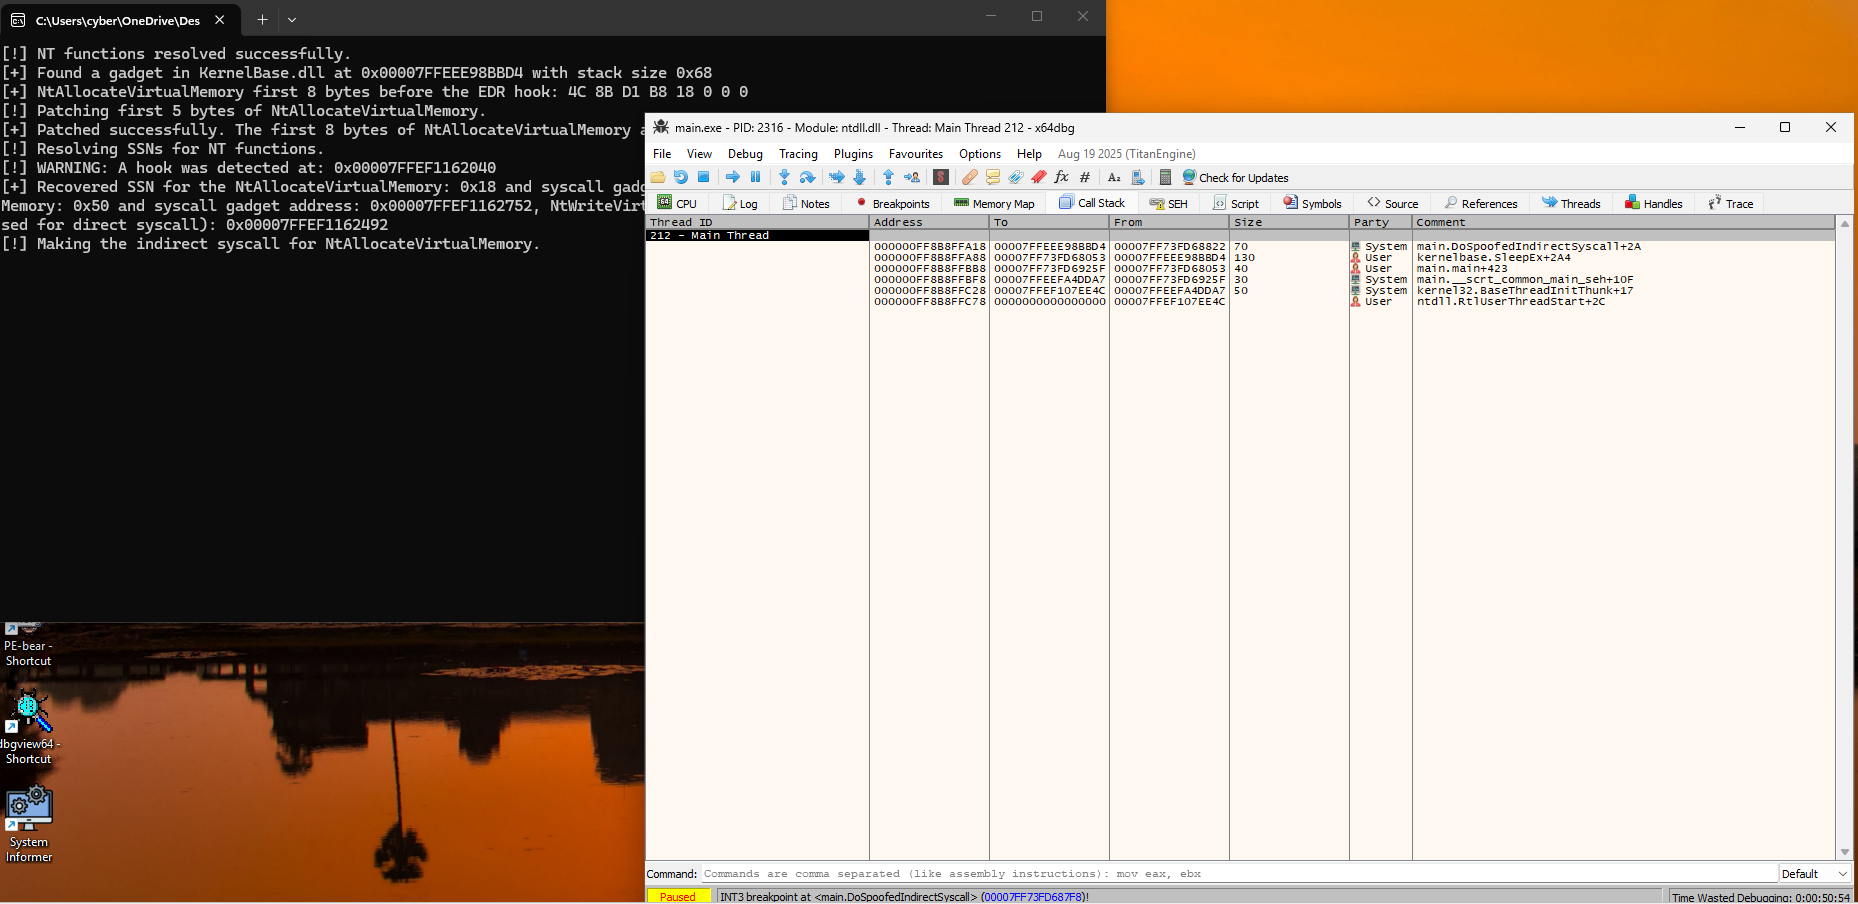
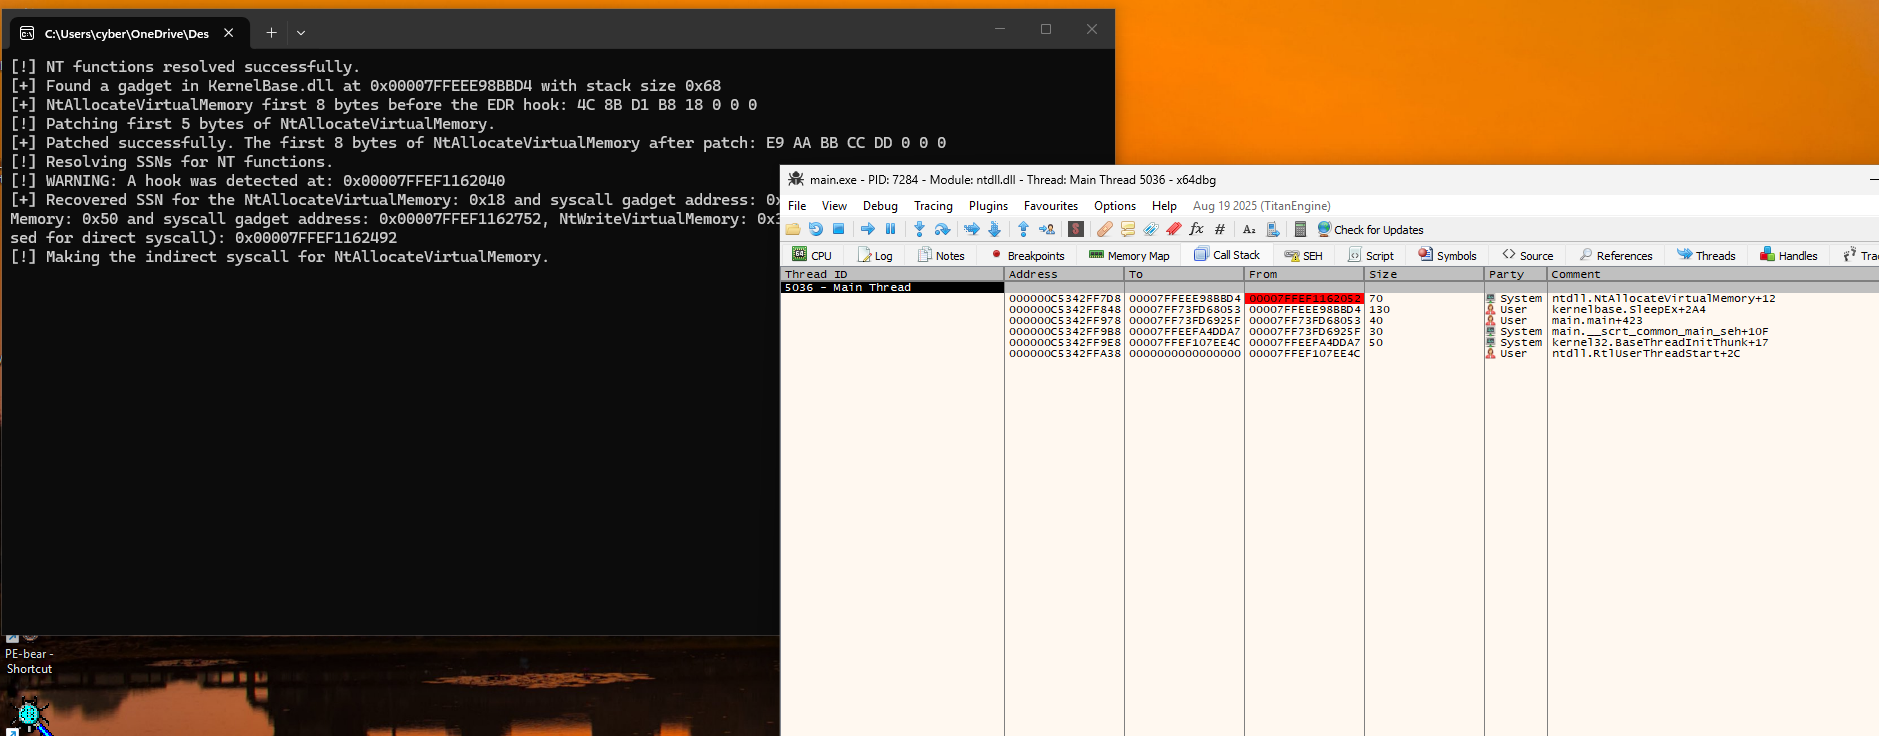
docs(windows): update Lab 4.3 call stack screenshot and document x64dbg CallstackCache behavior

diff --git a/windows/12-call-stack-spoofing-pdata-and-etw-amsi.md b/windows/12-call-stack-spoofing-pdata-and-etw-amsi.md
@@ -624,8 +624,8 @@ Look at the bottom-right stack pane: `[0x000000FF8B8FFA18]` (`RSP`) holds **`ker
 ![x64dbg Paused on syscall Inside ntdll.dll Showing Spoofed kernelbase.SleepEx+2A4 Frame at RSP](assets/lab-4.3/03-x64dbg-ntdll-syscall-spoofed-rsp-sleepex.png)
 
 #### 4. Live Unwound `Call Stack` Tab in x64dbg (Seamless `.pdata` Unwinding!)
-Because our synthetic frame size (`0x68`) matches `SleepEx`'s `.pdata` `UNWIND_INFO` entry to the exact byte, `x64dbg` unwinds cleanly through `kernelbase.SleepEx+2A4` (`Size: 70` hex = `0x68 + 8`) right back to `main.main+423` $\rightarrow$ `BaseThreadInitThunk` $\rightarrow$ `RtlUserThreadStart`:
-![x64dbg Call Stack Tab Showing Seamless Unwinding Through Spoofed kernelbase.SleepEx+2A4 Frame](assets/lab-4.3/04-x64dbg-clean-unwound-call-stack-tab.png)
+Breaking directly on `0x00007FFEF1162052` (`ntdll.NtAllocateVirtualMemory+12`) and inspecting `x64dbg`'s `Call Stack` tab shows the exact spoofed call chain—`ntdll.NtAllocateVirtualMemory+12` $\rightarrow$ **`kernelbase.SleepEx+2A4`** (`Size: 70` hex = `0x68` synthetic frame + `0x08` return address) $\rightarrow$ `main.main+423` $\rightarrow$ `BaseThreadInitThunk` $\rightarrow$ `RtlUserThreadStart`:
+![x64dbg Call Stack Tab Showing Seamless Unwinding From ntdll.NtAllocateVirtualMemory+12 Through Spoofed kernelbase.SleepEx+2A4 Frame](assets/lab-4.3/04-x64dbg-clean-unwound-call-stack-tab.png)
 
 #### 5. Returning From `ntdll.dll` Into `Module: kernelbase.dll` (`FF 23` — `jmp qword ptr ds:[rbx]`)
 Stepping past `ntdll!NtAllocateVirtualMemory`'s `ret` pops `0x00007FFEEE98BBD4` and lands inside `kernelbase.dll` (`RAX = 0` `STATUS_SUCCESS`) right on `jmp qword ptr ds:[rbx]`:
@@ -634,4 +634,12 @@ Stepping past `ntdll!NtAllocateVirtualMemory`'s `ret` pops `0x00007FFEEE98BBD4` 
 #### 6. Landing at `RestoreAfterSyscall` (`add rsp, 0x68` & Clean Return to `main()`)
 One step (`F7`) later, `kernelbase.dll`'s `jmp qword ptr ds:[rbx]` teleports execution back to `RestoreAfterSyscall` (`0x00007FF73FD68846`), which deallocates the `0x68`-byte synthetic frame, restores `RBX`, and returns `STATUS_SUCCESS` to `main()`:
 ![x64dbg Paused at RestoreAfterSyscall Deallocating 0x68-Byte Synthetic Frame](assets/lab-4.3/06-x64dbg-restore-after-syscall-cleanup.png)
+
+### Key Debugging & Evasion Notes
+1. **`x64dbg` `CallstackCache` Quirk (`F7` Single-Step vs. `F9` Breakpoint):**
+   - In `x64dbg` (`src/dbg/stackinfo.cpp`), unwound call stacks are cached by stack pointer alone (`CallstackCache.find(csp)`). If you single-step (`F7`) over `push qGadgetAddr` inside `DoSpoofedIndirectSyscall`, `x64dbg` caches `DoSpoofedIndirectSyscall+2A` as Frame 0 for that `RSP` value because the subsequent `jmp [qSyscallInsAddr]` does not change `RSP`. Breaking directly on `ntdll!NtAllocateVirtualMemory+12` via `F9` (as shown in Image #4 above) avoids the stale cache entry and displays the true live stack starting at `ntdll.NtAllocateVirtualMemory+12`.
+2. **Single-Frame Spoofing vs. Multi-Frame Stack Truncation (Unbacked Shellcode):**
+   - When executing from a disk-backed `.exe` (`main.exe`), inserting a single synthetic `KernelBase.dll` frame restores a normal `ntdll` $\leftarrow$ `kernelbase` $\leftarrow$ `main.exe` chain.
+   - When executing from **unbacked `Private` memory** (such as a Reflectively Mapped DLL from Module 4.1), full-chain stack spoofers (*SilentMoonwalk*, *Draugr*, *VulcanRaven*) push multiple synthetic frames (`KernelBase.dll` $\rightarrow$ `kernel32!BaseThreadInitThunk` $\rightarrow$ `ntdll!RtlUserThreadStart`) followed by a **`0x0000000000000000` (`NULL`)** return address. Because `RtlVirtualUnwind` terminates when `To == 0x0`, the stack walker stops at `RtlUserThreadStart` and never reaches the unbacked caller frames deeper on the stack.
+
 
